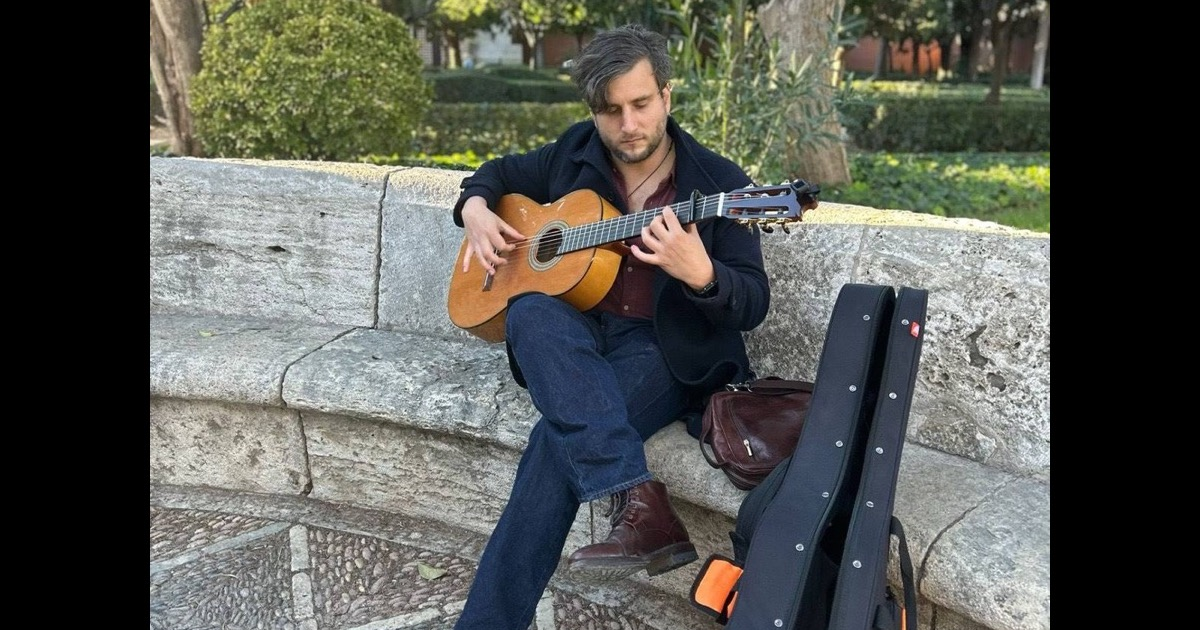
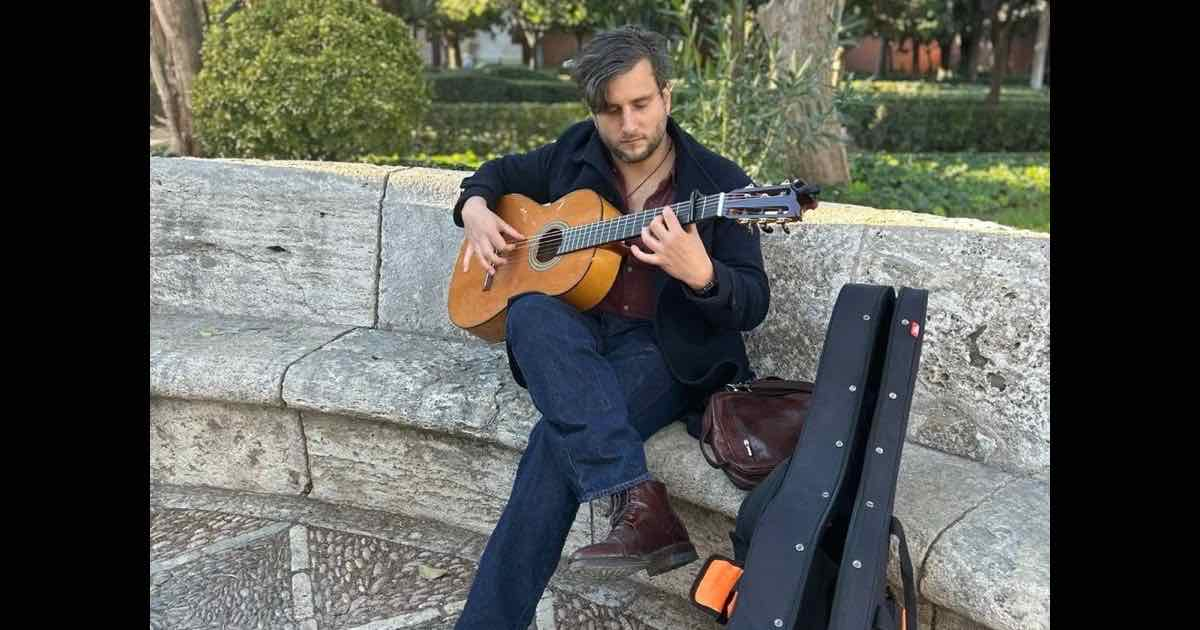
Perf: lazy recharts, static-asset caching, og-image recompress, scoped tile hints, stable hero waveform
- StreamingDashboard (recharts, ~100 KB gz) is now lazy like the other six
  analytics tabs — it was the one eager import dragging the charting stack
  into the route's first-load chunk
- _headers: fonts get immutable year-long caching; unhashed root images
  (hero, og-image, favicon) get a day — everything outside /assets/ was
  revalidating on every single view
- og-image.jpg 229 KB -> 65 KB (same 1200x630; social scrapers re-fetch it
  constantly and it was uncached AND oversized)
- CARTO tile preconnect/dns-prefetch hints move from the static shell (four
  speculative connections on every route) into a mount-time hook next to the
  map that actually uses them
- Hero waveform heights are a deterministic module-level array instead of
  Math.random() per render; container marked aria-hidden

diff --git a/src/components/Blipblox/GlobalRhythmMap.tsx b/src/components/Blipblox/GlobalRhythmMap.tsx
@@ -345,6 +345,33 @@ function useRhythmPreview() {
   return { playPreview, stopPreview, isPlaying };
 }
 
+// CARTO basemap tiles ({a-d}.basemaps.cartocdn.com) are the only third-party
+// runtime origin. The hints used to live in the static shell, but that warmed
+// four speculative connections on every route; injecting them when the map
+// actually mounts still front-runs the tile burst (this chunk loads moments
+// before leaflet requests tiles). Tiles load as plain <img> (non-CORS), so no
+// crossorigin attribute. Links persist after unmount; the guard keeps them
+// single-instance across remounts.
+const TILE_HOSTS = [
+  "https://a.basemaps.cartocdn.com",
+  "https://b.basemaps.cartocdn.com",
+  "https://c.basemaps.cartocdn.com",
+  "https://d.basemaps.cartocdn.com",
+];
+
+function useCartoTileHints() {
+  useEffect(() => {
+    if (document.head.querySelector("link[data-carto-hint]")) return;
+    TILE_HOSTS.forEach((href, i) => {
+      const link = document.createElement("link");
+      link.rel = i === 0 ? "preconnect" : "dns-prefetch";
+      link.href = href;
+      link.setAttribute("data-carto-hint", "");
+      document.head.append(link);
+    });
+  }, []);
+}
+
 const GlobalRhythmMap = ({
   rhythms,
   selectedCountry,
@@ -352,6 +379,7 @@ const GlobalRhythmMap = ({
   onCountryHover,
   onCountrySelect,
 }: GlobalRhythmMapProps) => {
+  useCartoTileHints();
   const [hoveredRhythm, setHoveredRhythm] = useState<Rhythm | null>(null);
   const { playPreview, stopPreview } = useRhythmPreview();
 

diff --git a/src/pages/MusicAnalyticsPage.tsx b/src/pages/MusicAnalyticsPage.tsx
@@ -6,10 +6,11 @@ import { fetchAndParseChartData, type ArtistMonthly } from "@/lib/musicDataServi
 import AnalyticsHero from "@/components/MusicAnalytics/AnalyticsHero";
 import ArtistPicker from "@/components/MusicAnalytics/ArtistPicker";
 import TabErrorBoundary from "@/components/MusicAnalytics/TabErrorBoundary";
-// The Overview tab is the initial view, so it stays eager. Every other tab
-// (each recharts/framer-motion heavy) is code-split and only downloaded when
-// its tab is first opened, keeping them out of the page's first-load chunk.
-import StreamingDashboard from "@/components/MusicAnalytics/StreamingDashboard";
+// Every tab — including the initial Overview — is code-split: recharts alone
+// is ~100 KB gzip, and the page has its own loading state while the CSV data
+// fetches, which masks the chunk fetch. Nothing chart-heavy belongs in the
+// route's first-load chunk.
+const StreamingDashboard = lazy(() => import("@/components/MusicAnalytics/StreamingDashboard"));
 const ArtistComparison = lazy(() => import("@/components/MusicAnalytics/ArtistComparison"));
 const CatalogSegmentation = lazy(() => import("@/components/MusicAnalytics/CatalogSegmentation"));
 const VolatilityPanel = lazy(() => import("@/components/MusicAnalytics/VolatilityPanel"));

diff --git a/src/components/Hero.tsx b/src/components/Hero.tsx
@@ -1,5 +1,12 @@
 import { ArrowRight, Headphones } from "lucide-react";
 
+// Decorative waveform: deterministic pseudo-random heights so the hero never
+// re-randomizes on re-render (and screenshots stay stable).
+const WAVEFORM_HEIGHTS = Array.from(
+  { length: 80 },
+  (_, i) => Math.sin(i * 0.2) * 40 + ((i * 7919) % 30) + 10,
+);
+
 const Hero = () => {
   return (
     <section
@@ -60,14 +67,15 @@ const Hero = () => {
         </div>
       </div>
 
-      <div className="absolute bottom-0 left-0 right-0 flex h-24 items-end justify-center gap-[2px] overflow-hidden opacity-25">
-        {Array.from({ length: 80 }).map((_, index) => (
+      <div
+        className="absolute bottom-0 left-0 right-0 flex h-24 items-end justify-center gap-[2px] overflow-hidden opacity-25"
+        aria-hidden="true"
+      >
+        {WAVEFORM_HEIGHTS.map((height, index) => (
           <div
             key={index}
             className="w-[3px] rounded-t-full bg-white/55"
-            style={{
-              height: `${Math.sin(index * 0.2) * 40 + Math.random() * 30 + 10}%`,
-            }}
+            style={{ height: `${height}%` }}
           />
         ))}
       </div>

diff --git a/index.html b/index.html
@@ -26,14 +26,6 @@
   
   
   <link rel="preload" as="image" href="/hero-photo.webp" imagesrcset="/hero-photo-750.webp 750w, /hero-photo.webp 1050w" imagesizes="100vw" fetchpriority="high">
-  <!-- CARTO basemap tiles ({a-d}.basemaps.cartocdn.com) are the only
-       third-party runtime origin; warming DNS/TLS here keeps the first tile
-       burst off the critical path on the map-bearing tool routes. Tiles load
-       as plain <img> (non-CORS), so no crossorigin attribute. -->
-  <link rel="preconnect" href="https://a.basemaps.cartocdn.com">
-  <link rel="dns-prefetch" href="https://b.basemaps.cartocdn.com">
-  <link rel="dns-prefetch" href="https://c.basemaps.cartocdn.com">
-  <link rel="dns-prefetch" href="https://d.basemaps.cartocdn.com">
   <link rel="preload" href="/fonts/SpaceGrotesk-Variable-latin.woff2" as="font" type="font/woff2" crossorigin>
   <link rel="preload" href="/fonts/DMSans-Variable-latin.woff2" as="font" type="font/woff2" crossorigin>
   <link rel="icon" type="image/x-icon" href="/favicon.ico">
